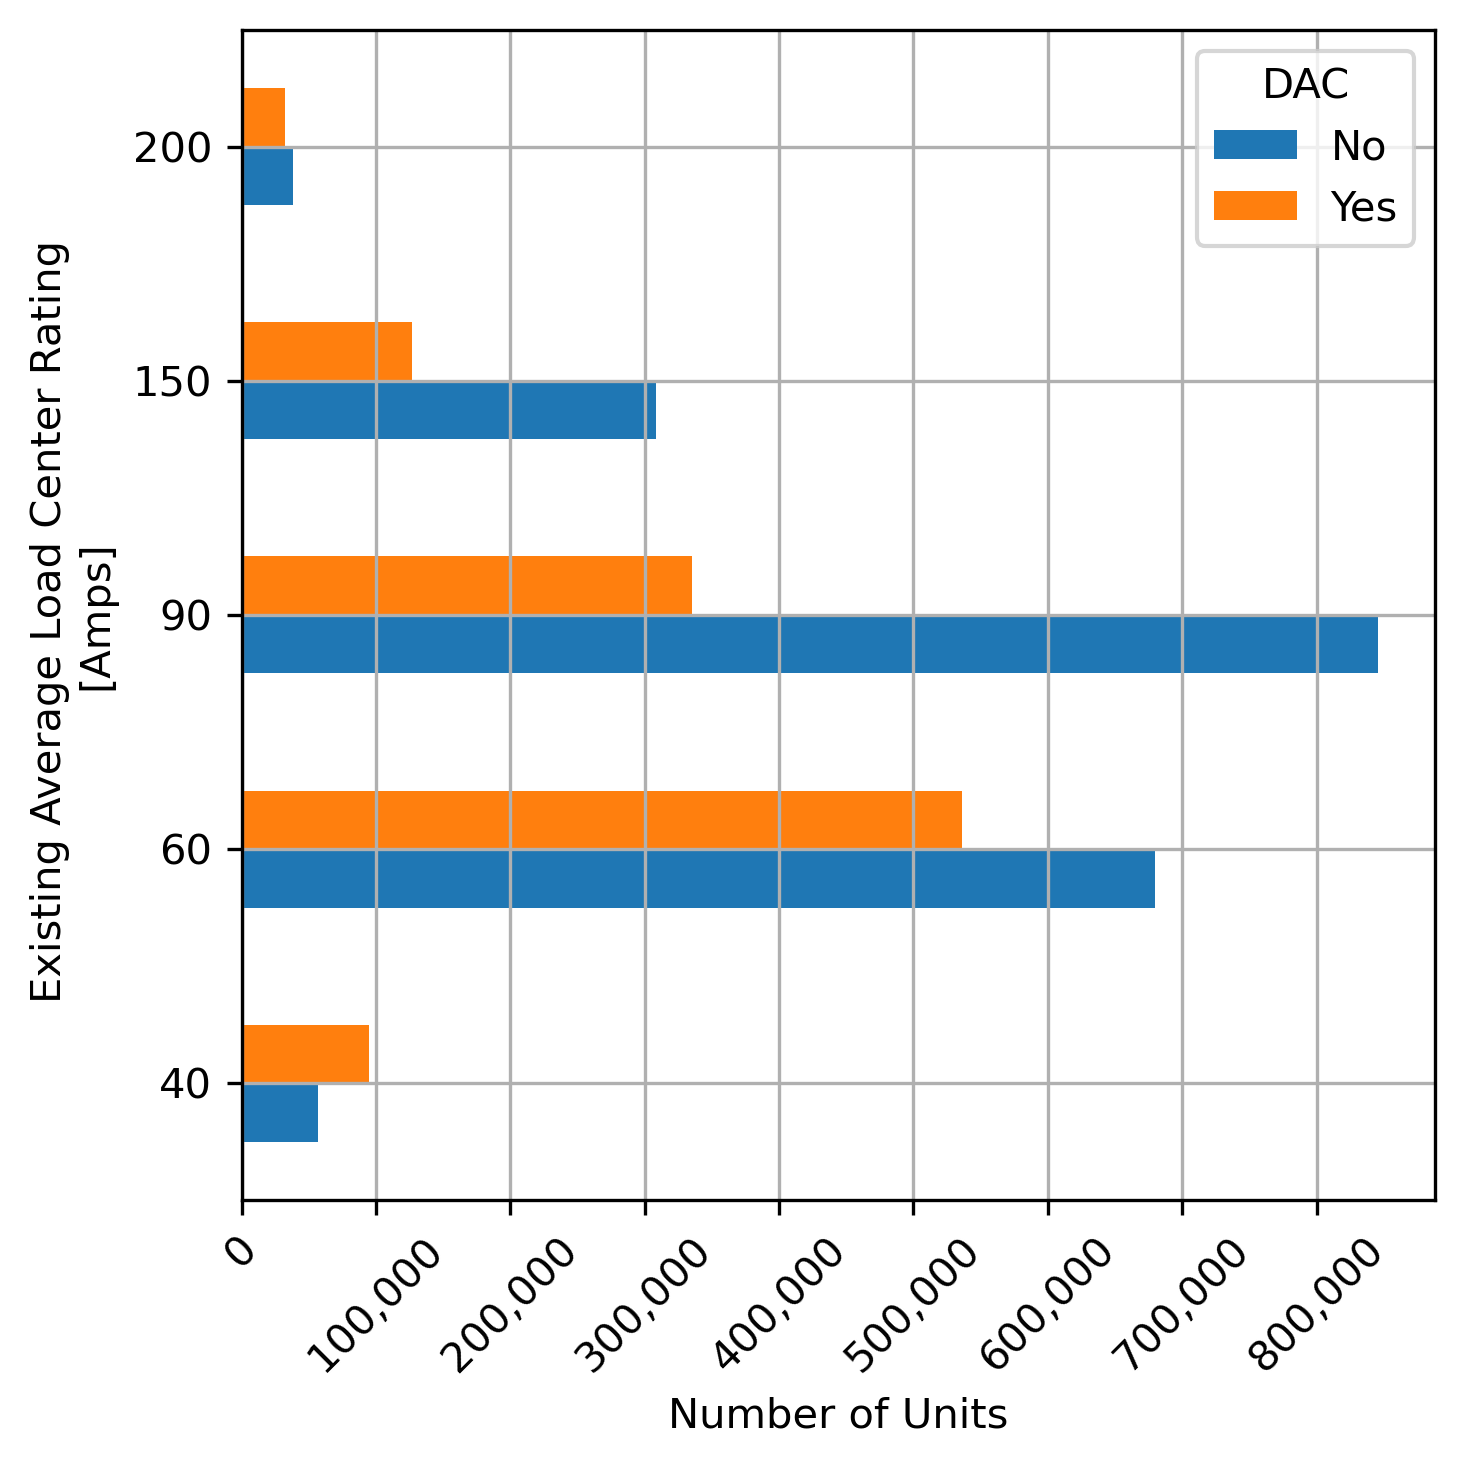
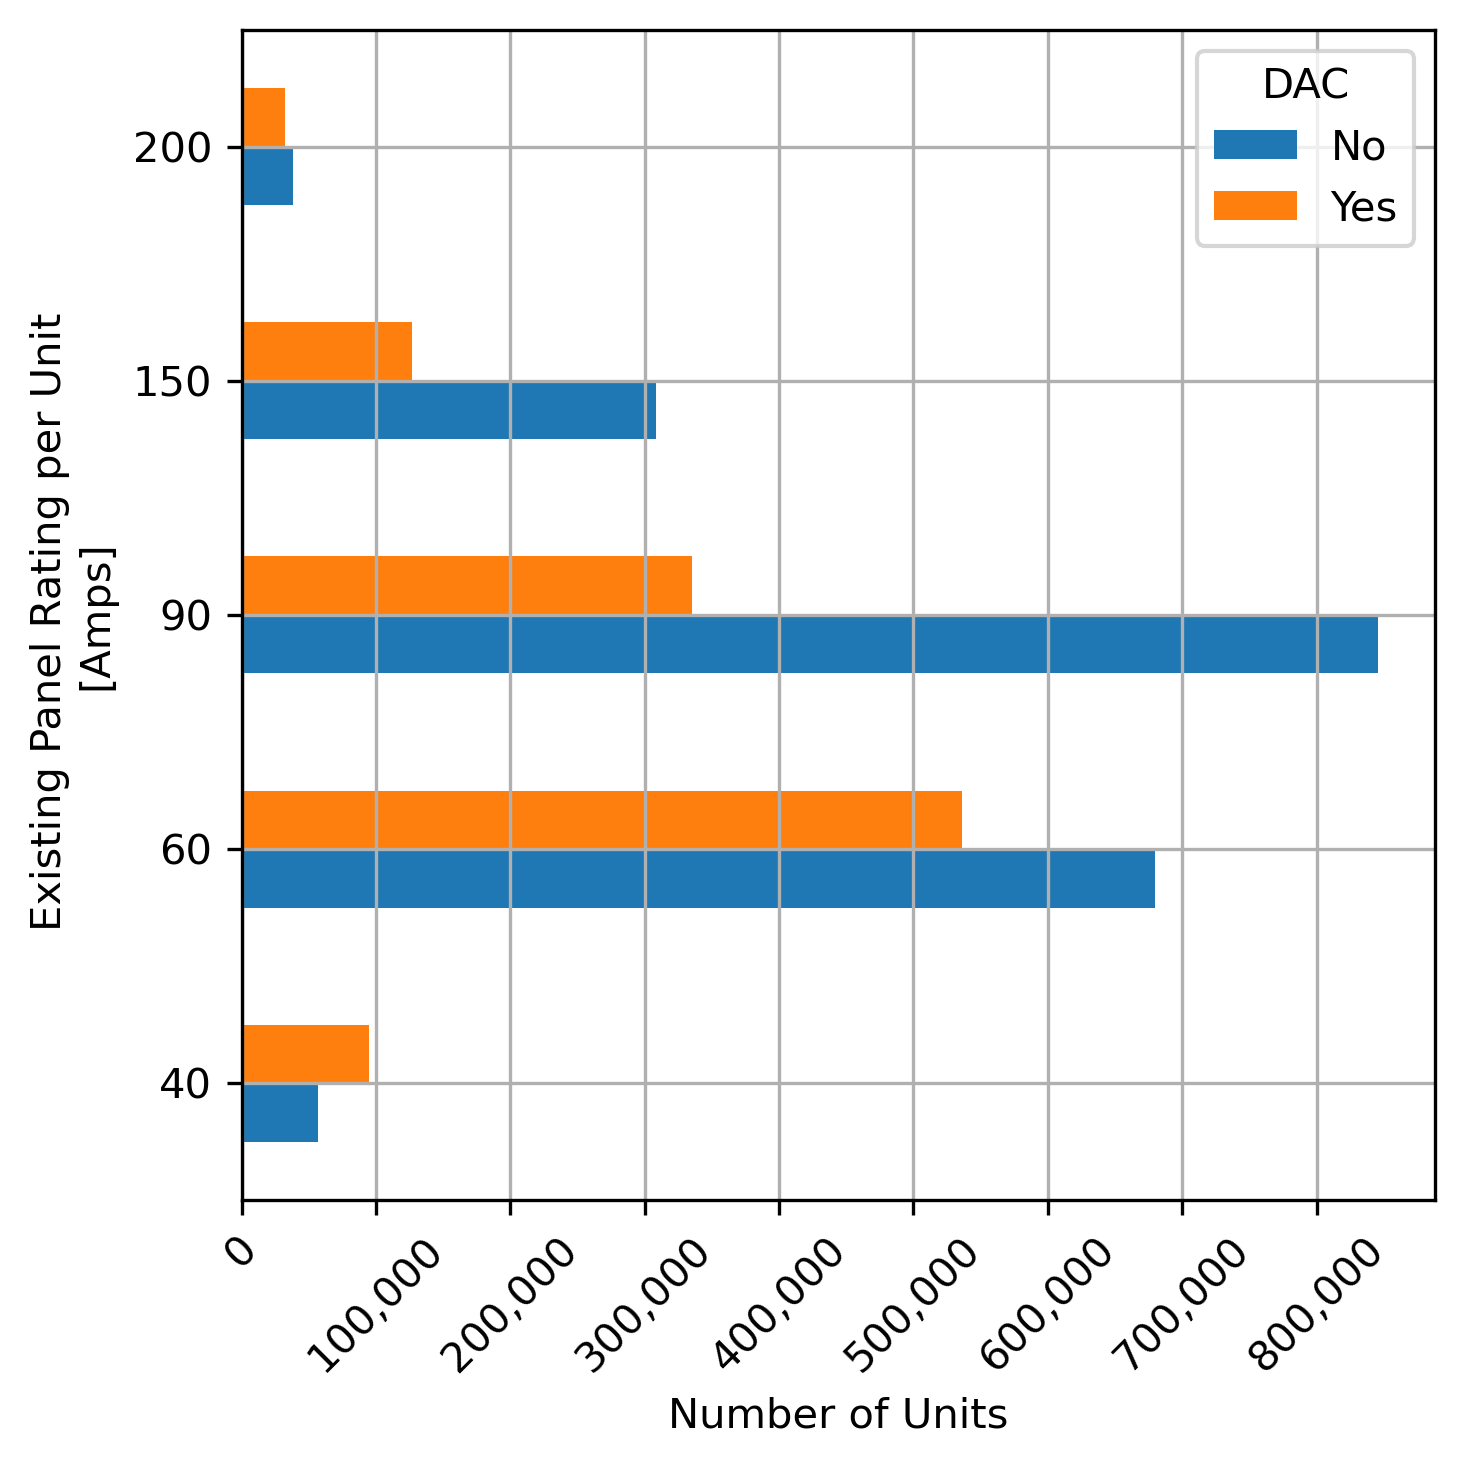
Continue upgrades to map and plot routines

Changed region(s): [[0.0, 0.1535, 0.0614, 0.6753]]

diff --git a/analyses/model_data/model_data_analysis.py b/analyses/model_data/model_data_analysis.py
@@ -651,7 +651,7 @@ def ExistingPanelRatingsBar(mp, sector, figure_dir):
         counts = mp.groupby(['dac', 'panel_size_existing'])['TotalNoOfUnits'].agg('sum')
         counts = counts.unstack(level= 0)
         counts.index = counts.index.astype(int)
-        ylabel = 'Existing Average Load Center Rating \n[Amps]'
+        ylabel = 'Existing Panel Rating per Unit \n[Amps]'
         xlabel = 'Number of Units'
 
     # Plot Counts
@@ -880,7 +880,8 @@ def AreaNormalizedComparisonKDE(mp, sector, figure_dir):
 #%% Generate Area Normalized KDE and Stats
 
 # CAUTION - Long run time...
-AreaNormalizedComparisonKDE(mp, sector, figure_dir)
+AreaNormalizedComparisonKDE(sf, 'single_family', figure_dir)
+AreaNormalizedComparisonKDE(mf, 'multi_family', figure_dir)
 
 #%% Distribution of Destination Panel Sizes for Permitted Upgrades
 
@@ -888,41 +889,7 @@ def PermittedUpgradePanelSizeDistribution(mp, sector, figure_dir):
 
     perm_ind = ~mp['upgraded_panel_size'].isna()
 
-    data = mp.loc[perm_ind, ['dac','upgraded_panel_size']]
-    data.loc[data['upgraded_panel_size'] < 60.0, ['upgraded_panel_size']] = 60.0
-
-    counts = data.groupby(['dac','upgraded_panel_size'])['upgraded_panel_size'].agg('count')
-    counts = counts.unstack(level= 0)
-    counts.index = counts.index.astype(int)
-
-    fig, ax = plt.subplots(1,1,figsize=(5,5))
-
-    counts.plot.barh(ax = ax, color = ['tab:blue', 'tab:orange'])
-
-    ax.set_ylabel('Upgraded Panel Size')
-    ax.set_xlabel('Upgrade Permit Count Frequency')
-    ax.grid(True)
-    ax.xaxis.set_major_formatter(StrMethodFormatter('{x:,.0f}'))
-    ax.legend(title = 'Priority Population')
-
-    plt.xticks(rotation = 45)
-
-    fig.savefig(figure_dir + '{}_permitted_upgrade_panel_size_distribution.png'.format(sector), bbox_inches = 'tight', dpi = 300)
-
-    return
-
-#%% Generate Permitted Panel Upgrade Distribution Plot
-
-PermittedUpgradePanelSizeDistribution(mp, sector, figure_dir)
-
-#%% Distribution of Destination Panel Sizes for Inferred Upgrades
-
-def InferredUpgradePanelSizeDistribution(mp, sector, figure_dir):
-
-    infer_ind = mp['inferred_panel_upgrade'] == True
-
-    data = mp.loc[infer_ind, ['dac','panel_size_existing']]
-    data.loc[data['panel_size_existing'] < 60.0, ['panel_size_existing']] = 60.0
+    data = mp.loc[perm_ind, ['dac','panel_size_existing']]
 
     counts = data.groupby(['dac','panel_size_existing'])['panel_size_existing'].agg('count')
     counts = counts.unstack(level= 0)
@@ -933,10 +900,43 @@ def InferredUpgradePanelSizeDistribution(mp, sector, figure_dir):
     counts.plot.barh(ax = ax, color = ['tab:blue', 'tab:orange'])
 
     ax.set_ylabel('Upgraded Panel Size')
-    ax.set_xlabel('Inferred Upgrade Count Frequency')
+    ax.set_xlabel('Number of Properties')
     ax.grid(True)
     ax.xaxis.set_major_formatter(StrMethodFormatter('{x:,.0f}'))
-    ax.legend(title = 'Priority Population')
+    ax.legend(title = 'DAC')
+
+    plt.xticks(rotation = 45)
+
+    fig.savefig(figure_dir + '{}_permitted_upgrade_panel_size_distribution.png'.format(sector), bbox_inches = 'tight', dpi = 300)
+
+    return
+
+#%% Generate Permitted Panel Upgrade Distribution Plot
+
+PermittedUpgradePanelSizeDistribution(sf, 'single_family', figure_dir)
+PermittedUpgradePanelSizeDistribution(mf, 'multi_family', figure_dir)
+
+#%% Distribution of Destination Panel Sizes for Inferred Upgrades
+
+def InferredUpgradePanelSizeDistribution(mp, sector, figure_dir):
+
+    infer_ind = mp['inferred_panel_upgrade'] == True
+
+    data = mp.loc[infer_ind, ['dac','panel_size_existing']]
+
+    counts = data.groupby(['dac','panel_size_existing'])['panel_size_existing'].agg('count')
+    counts = counts.unstack(level= 0)
+    counts.index = counts.index.astype(int)
+
+    fig, ax = plt.subplots(1,1,figsize=(5,5))
+
+    counts.plot.barh(ax = ax, color = ['tab:blue', 'tab:orange'])
+
+    ax.set_ylabel('Upgraded Panel Size')
+    ax.set_xlabel('Number of Properties')
+    ax.grid(True)
+    ax.xaxis.set_major_formatter(StrMethodFormatter('{x:,.0f}'))
+    ax.legend(title = 'DAC')
 
     plt.xticks(rotation = 45)
 
@@ -946,7 +946,8 @@ def InferredUpgradePanelSizeDistribution(mp, sector, figure_dir):
 
 #%% Generate Inferred Panel Upgrade Distribution Plot
 
-InferredUpgradePanelSizeDistribution(mp, sector, figure_dir)
+InferredUpgradePanelSizeDistribution(sf, 'single_family', figure_dir)
+InferredUpgradePanelSizeDistribution(mf, 'multi_family', figure_dir)
 
 #%% Generate Maps by Air District
 
